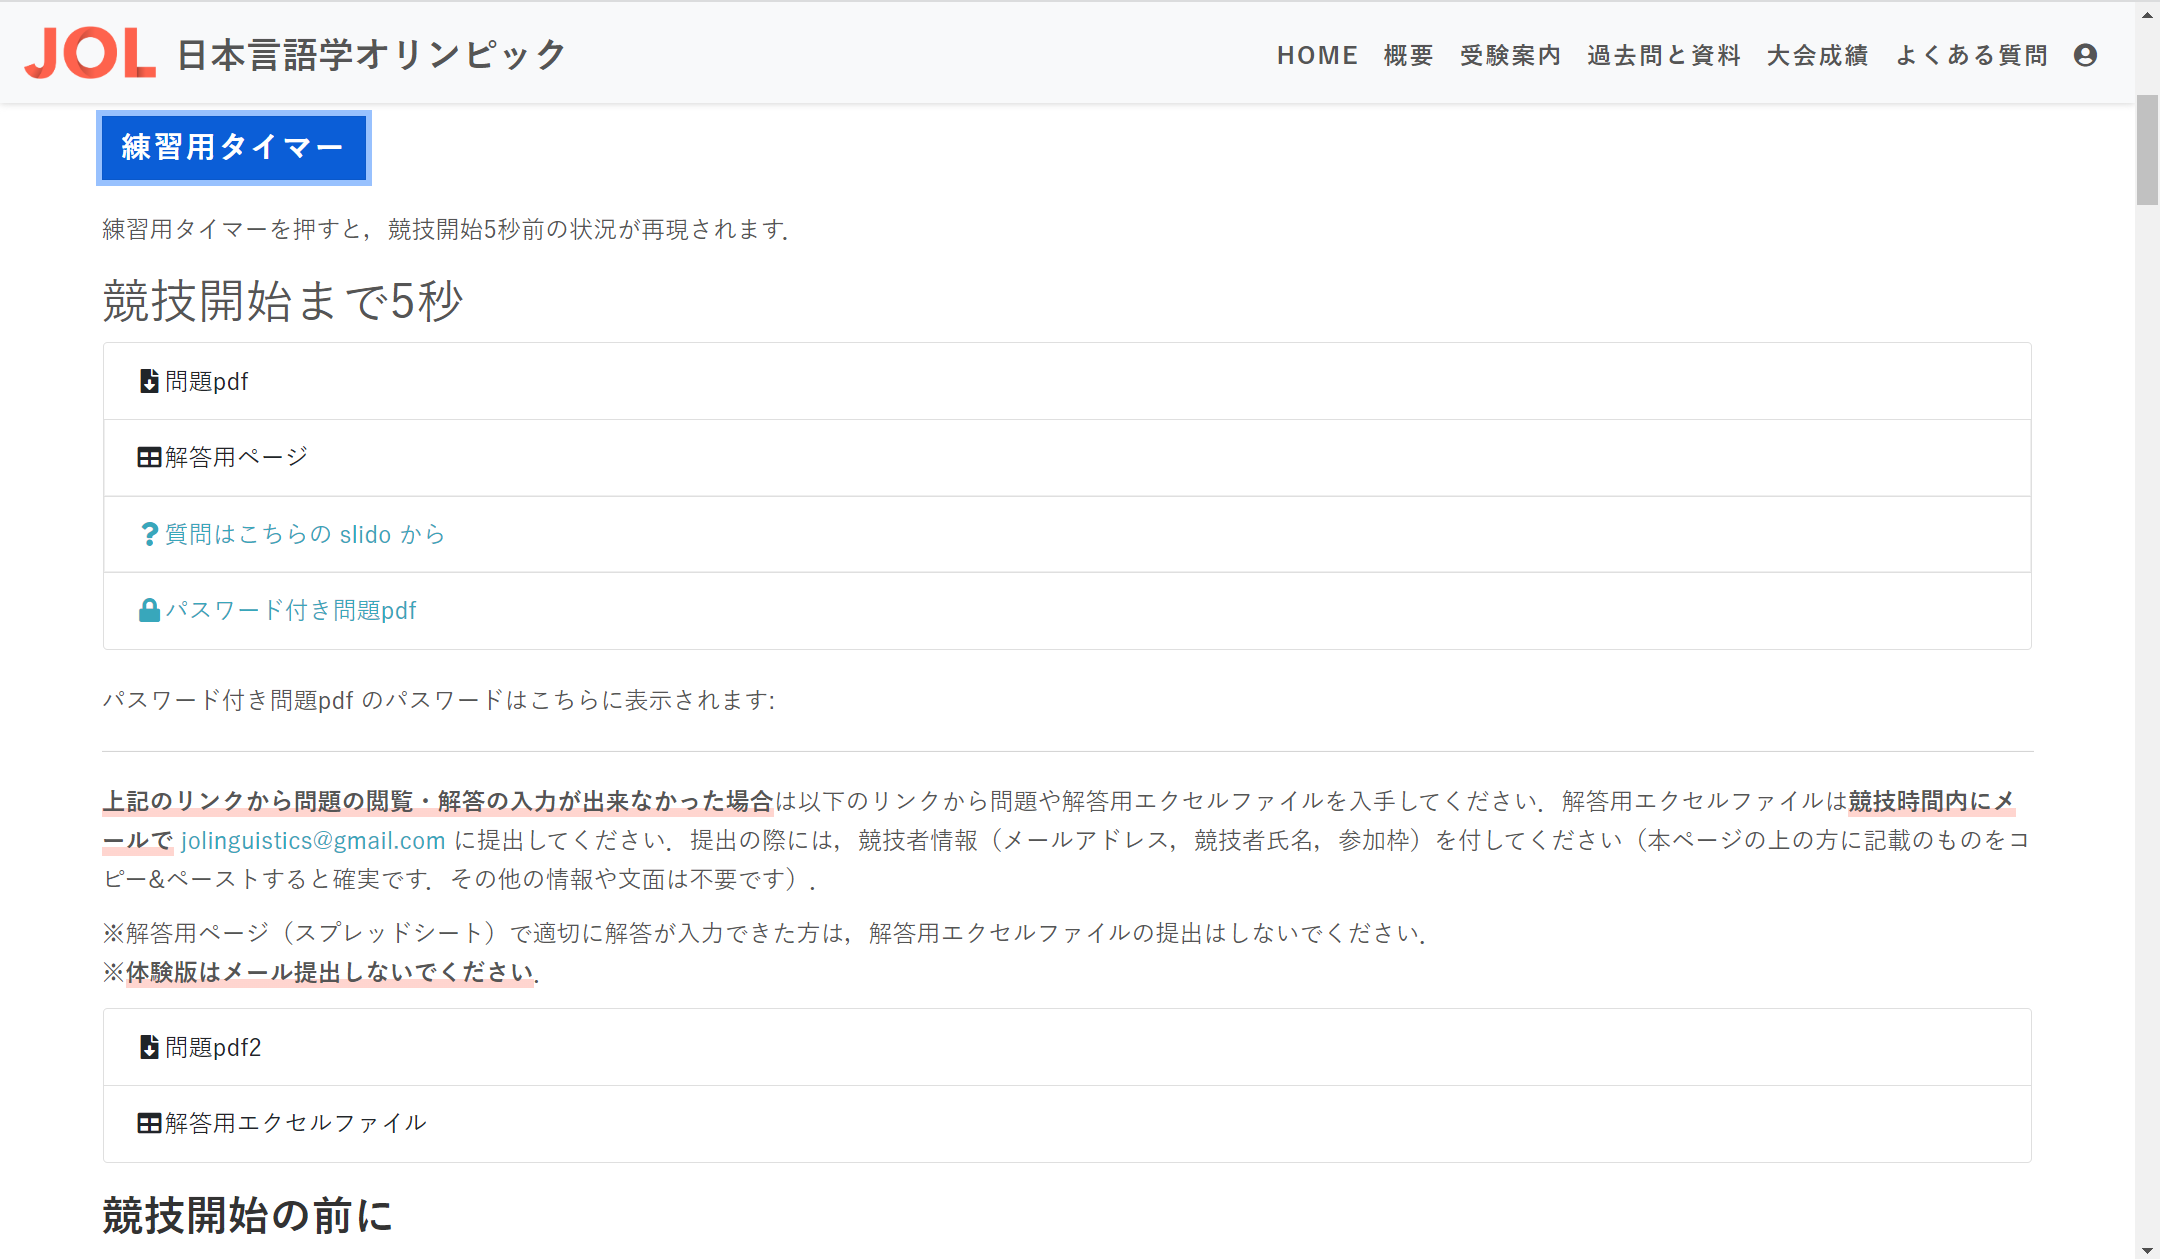
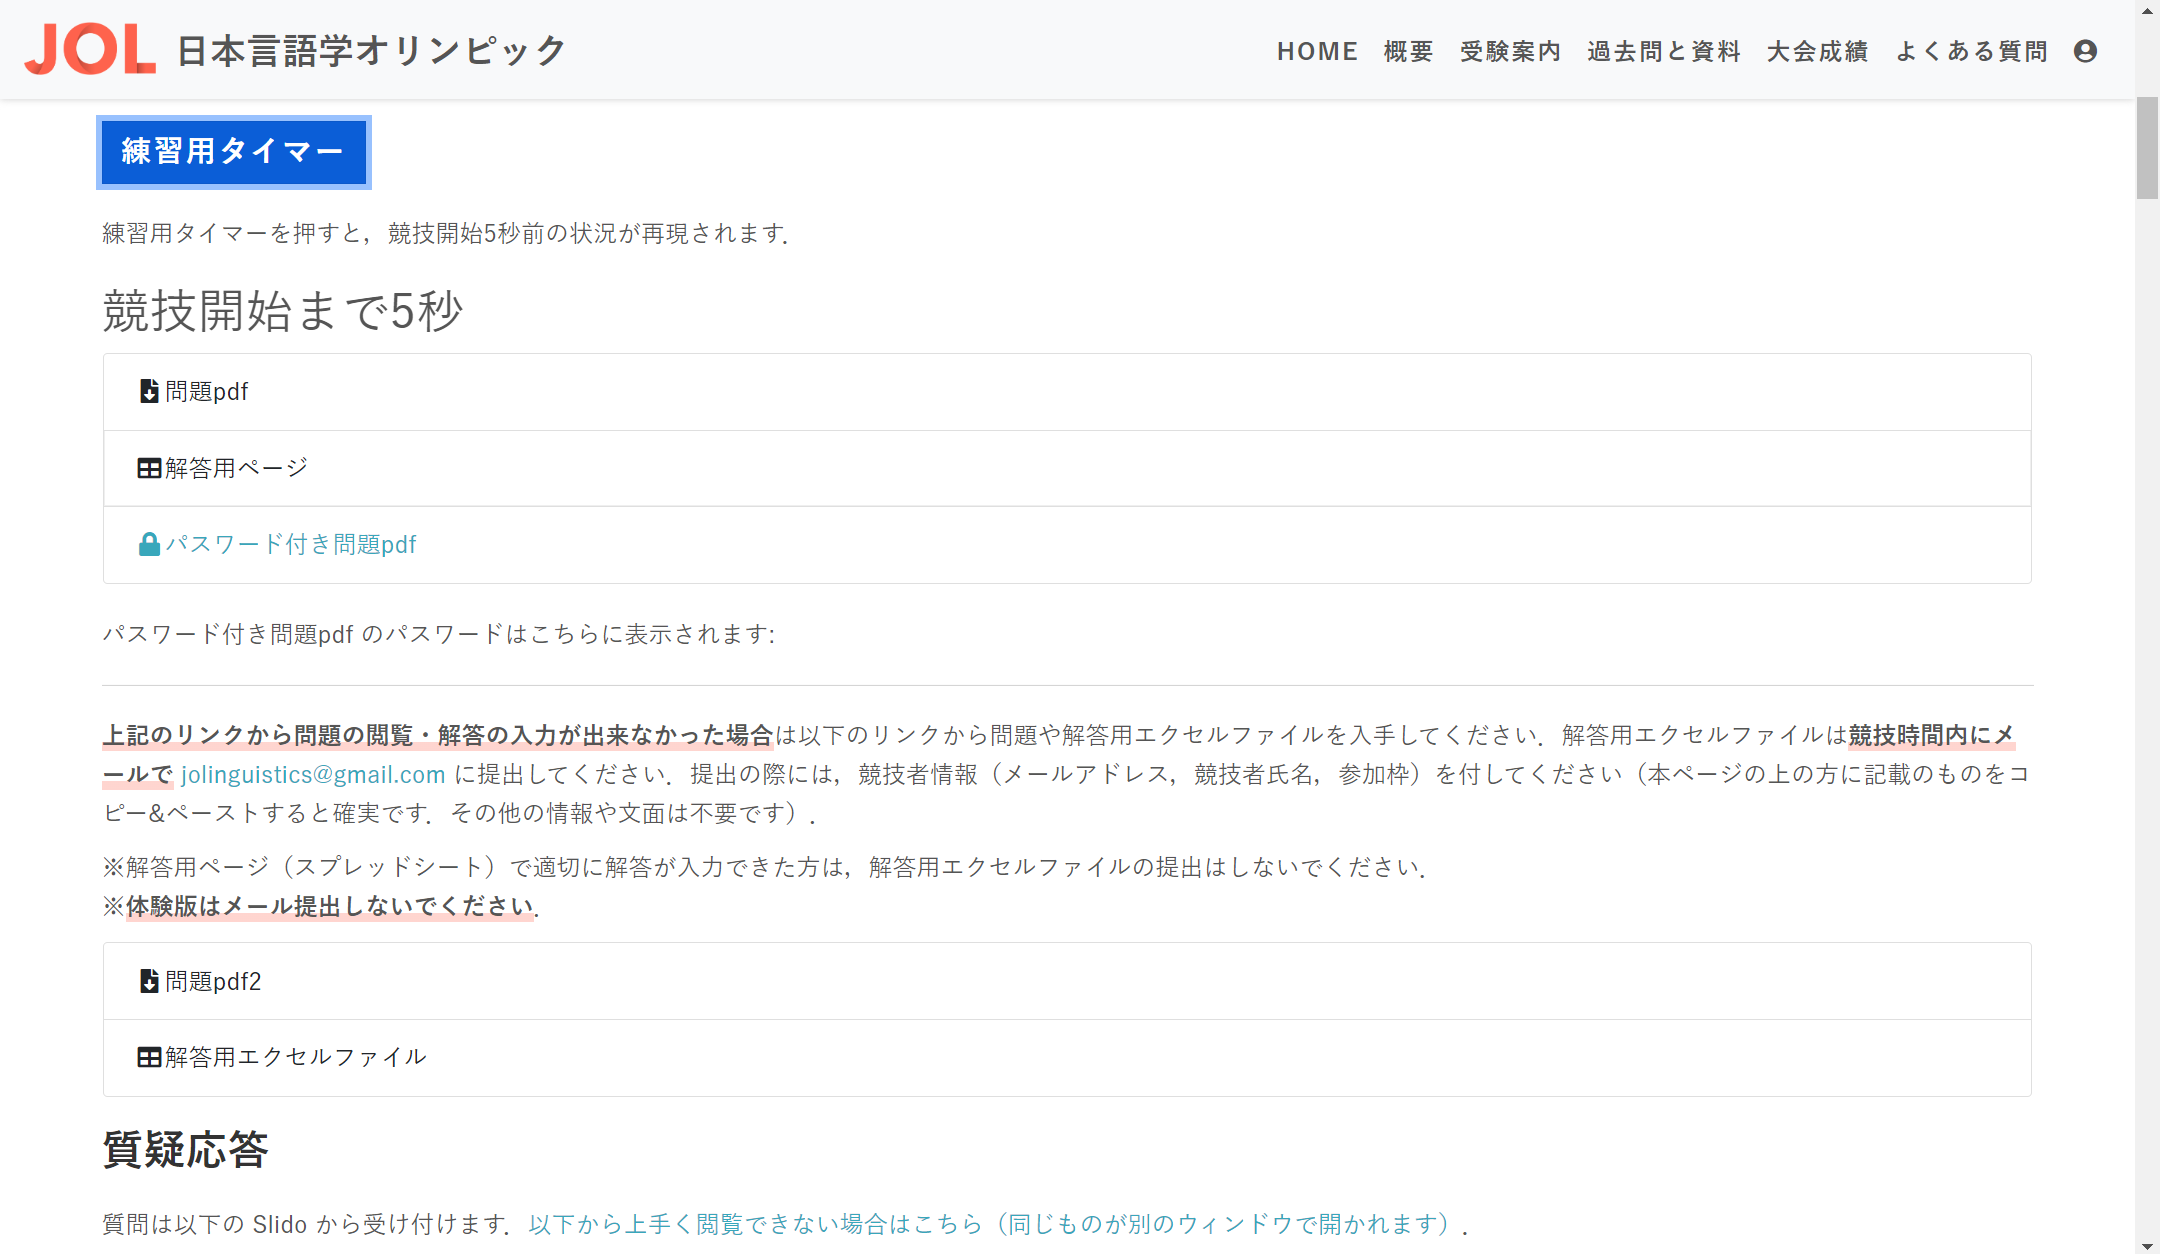
JOL2023 事前練習ページ 更新

diff --git a/assets/js/contest/jol2023/demo.ts b/assets/js/contest/jol2023/demo.ts
@@ -1,5 +1,5 @@
 import { app, auth, db } from "../../firebase-initialize"
-import { ref, onValue, update, get, set } from "firebase/database"
+import { ref, onValue, update, get, set, serverTimestamp } from "firebase/database"
 import { toHms } from "../../utility/toHms"
 
 const ELEM_LINKS = document.getElementById('links')!.getElementsByTagName('a');
@@ -33,6 +33,11 @@ document.addEventListener("DOMContentLoaded", (event) => {
                                 elem.style.display = userInfo.spot === "flag" ? "block" : "none";
                             }
                         }
+                        update(ref(db, '/contests/jol2023/demolog/' + user.uid), {
+                            timestamp: serverTimestamp()
+                        })
+                    }, {
+                        onlyOnce: true
                     });
                     onValue(ref(db, '/contests/jol2023/publish/demo/'), (snapshot2) => {
                         const publish = snapshot2.val();
@@ -40,12 +45,16 @@ document.addEventListener("DOMContentLoaded", (event) => {
                             demolinks = Object.assign({}, demolinks, publish);
                             // updateLinks(publish);
                         }
+                    }, {
+                        onlyOnce: true
                     });
                     onValue(ref(db, '/contests/jol2023/demo/' + user.uid), (snapshot3) => {
                         const answerSheet = snapshot3.val();
                         if (answerSheet) {
                             demolinks = Object.assign({}, demolinks, answerSheet);
                         }
+                    }, {
+                        onlyOnce: true
                     });
                 }
                 else {

diff --git a/content/contest/jol2023/demo.md b/content/contest/jol2023/demo.md
@@ -16,9 +16,15 @@ isFBInit = false
 
 {{< simplebox "本ページでできること" >}}
 
-本ページでは，JOL2023本番とほぼ同様の方法で問題閲覧・解答提出ができます．お使いの端末できちんと問題が閲覧でき，解答が記入できるか，動作の確認と練習ができるようになっています．何か質問がある場合は，<a href="https://app.sli.do/event/7S1g4NNgjGgg4VbAs8Wj4J" target="_blank">こちらにアクセスして質問をお願いします</a>．ただし個人情報を含む質問は，委員会にメールでお問い合わせください: {{< email >}}．
+本ページでは，JOL2023本番とほぼ同様の方法で問題閲覧・解答提出ができます．お使いの端末できちんと問題が閲覧でき，解答が記入できるか，動作の確認と練習ができるようになっています．何か質問がある場合は，本ページ上の slido からお願いします．ただし個人情報を含む質問は，委員会にメールでお問い合わせください: {{< email >}}．
 
 その下に，[事前準備事項](#事前準備事項)，[当日の流れ](#当日の流れ)，[問題閲覧・解答提出方法](#問題閲覧解答提出方法)の説明があります．お読みください．
+
+---
+
+追記
+
+2022年12月22日18:00 質疑応答用ページ（slido）を本ページに埋め込みました．タイマーを常に画面上に表示されるようにしました．
 
 {{< /simplebox >}}
 
@@ -38,7 +44,7 @@ isFBInit = false
 
 練習用タイマーを押すと，競技開始5秒前の状況が再現されます．
 
-<div id="timer" class="fa-2x">競技開始まで</div>
+<div id="timer" class="fa-2x position-sticky pt-1" style="top: 62px; background-color: white; z-index: 10;">競技開始まで</div>
 
 {{< card-header >}}
 {{< list class="list-group list-fill-link" liclass="list-group-item" id="links">}}
@@ -46,7 +52,6 @@ isFBInit = false
 <ul>
 <li><a target="_blank">{{< icon file-download 問題pdf>}}</a></li>
 <li><a target="_blank">{{< icon table 解答用ページ >}}</a></li>
-<li><a href="https://app.sli.do/event/7S1g4NNgjGgg4VbAs8Wj4J" target="_blank">{{< icon question "質問はこちらの slido から">}}</a></li>
 <li><a href="https://drive.google.com/file/d/1l8XqmydMqQCB2W9tAPk7Fe-F7SUbfM3i/view?usp=share_link" target="_blank">{{< icon lock パスワード付き問題pdf >}}</a></li>
 </ul>
 
@@ -72,6 +77,14 @@ isFBInit = false
 
 {{< /list >}}
 {{< /card-header >}}
+
+### 質疑応答
+
+質問は以下の Slido から受け付けます．
+
+<iframe src="https://app.sli.do/event/7S1g4NNgjGgg4VbAs8Wj4J" height="100%" width="100%" frameBorder="0" style="min-height: 560px;" title="Slido"></iframe>
+
+<a href="https://app.sli.do/event/7S1g4NNgjGgg4VbAs8Wj4J" target="_blank">以上から上手く閲覧できない場合はこちら（同じものが別のウィンドウで開かれます）</a>．
 
 ### 競技開始の前に
 
@@ -154,7 +167,7 @@ isFBInit = false
 
 空欄[ 1 ]を埋めなさい．[3点，部分点あり]
 
-{{< table class="list-like ms-2" >}}
+{{< table class="list-like ms-2 d-none d-md-table" >}}
 |||
 | --------------------------------------------- | ----------------- |
 | 1. alijenga                                   | ←正解 (3 点)     |
@@ -162,6 +175,13 @@ isFBInit = false
 | 1. ninajenga / jenga                          | ←部分点 (1 点)   |
 | 1. ninapika                                   | ←得点なし (0 点) |
 {{< /table >}}
+{{< list class="d-md-none" style="list-style-type: none" >}}
+
+- 1\. alijenga                                    ←正解 (3 点)
+- 1\. anlijenga / anajenga / nilijenga / lijenga  ←部分点 (2 点)
+- 1\. ninajenga / jenga                           ←部分点 (1 点)
+- 1\. ninapika                                    ←得点なし (0 点)
+{{< /list >}}
 {{< /simplebox >}}
 
 - **設問と配点は必ずしも対応しません**．複数の設問に正解して初めて点が与えられる場合もあります．
@@ -186,14 +206,19 @@ isFBInit = false
 
 空欄[ 1 ]～[ 3 ]を埋めなさい． [3点, 完答]
 
-{{< table class="list-like ms-2" >}}
+{{< table class="list-like ms-2 d-none d-sm-table" >}}
 |||||
 | ------------ | --------- | --------- | ----------------- |
 | 1. resensei | 2. mlai   | 3. rebuik | ←正解 (3 点)     |
 | 1. resensei | 2. remlai | 3. rebuik | ←得点なし (0 点) |
 | 1. sensei   | 2. mlai   | 3. buik   | ←得点なし (0 点) |
 {{< /table >}}
+{{< list class="d-sm-none" style="list-style-type: none" >}}
 
+- 1\. resensei 2. mlai   3. rebuik ←正解 (3 点)
+- 1\. resensei 2. remlai 3. rebuik ←得点なし (0 点)
+- 1\. sensei   2. mlai   3. buik   ←得点なし (0 点)
+{{< /list >}}
 {{< /simplebox >}}
 
 ## 事前準備事項
@@ -233,7 +258,7 @@ isFBInit = false
 
 ### 競技中の質問方法
 
-質問は slido というサービスから受け付けます．試しにアクセスし，可能なら本ページや競技について質問してみてください．（本ページには体験版用のslidoへのリンクが載っています．本番は本番用に別のslidoを用意しますのでご注意ください．）
+質問は slido というサービスから受け付けます．試しにアクセスし，可能なら本ページや競技について質問してみてください．（本ページには体験版用のslidoが載っています．本番は本番用に別のslidoを用意しますのでご注意ください．）
 
 {{< wrap tag=div class="only-flag" >}}
 {{< simplebox "選抜枠のみ" >}}
